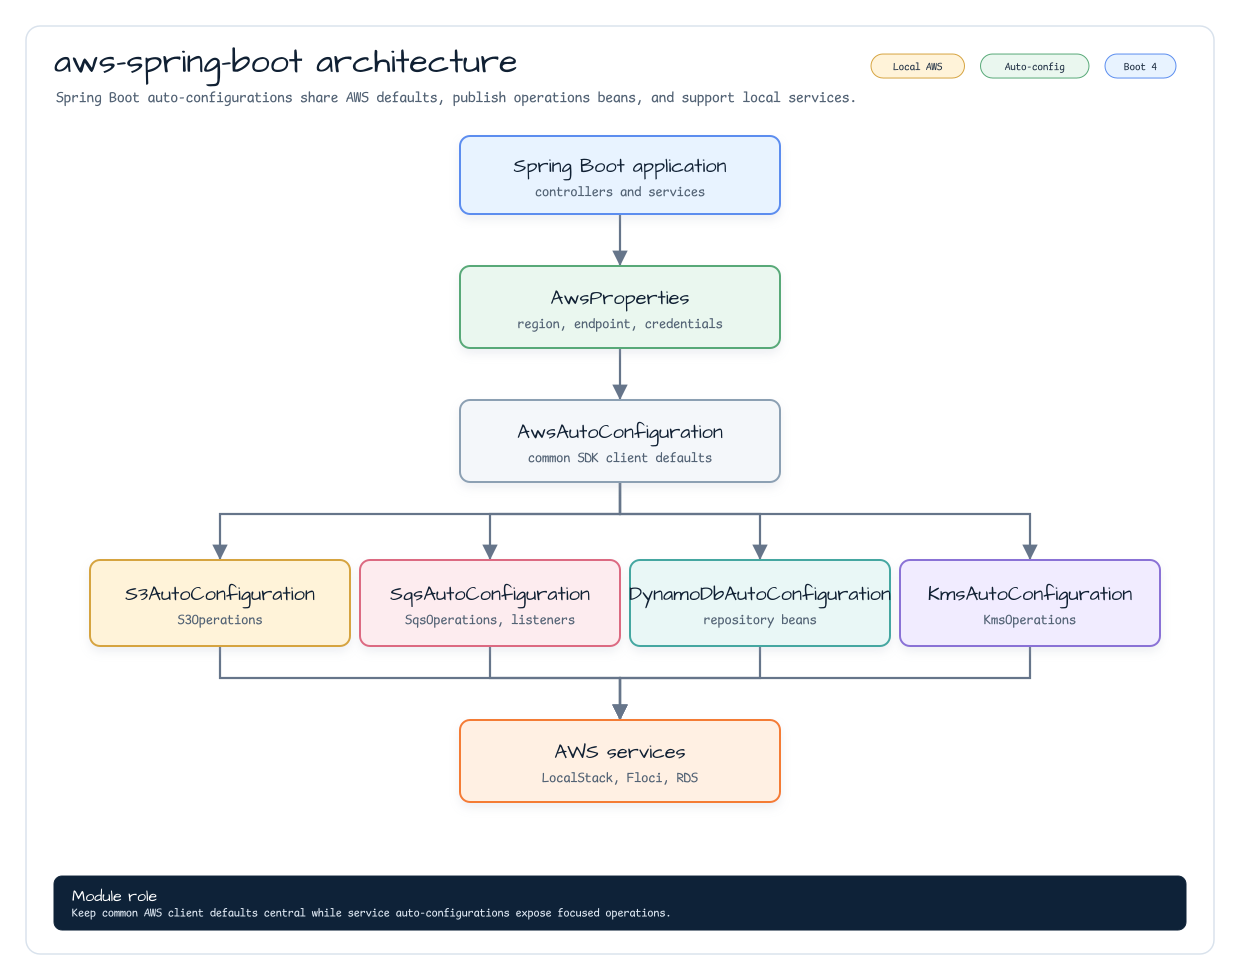
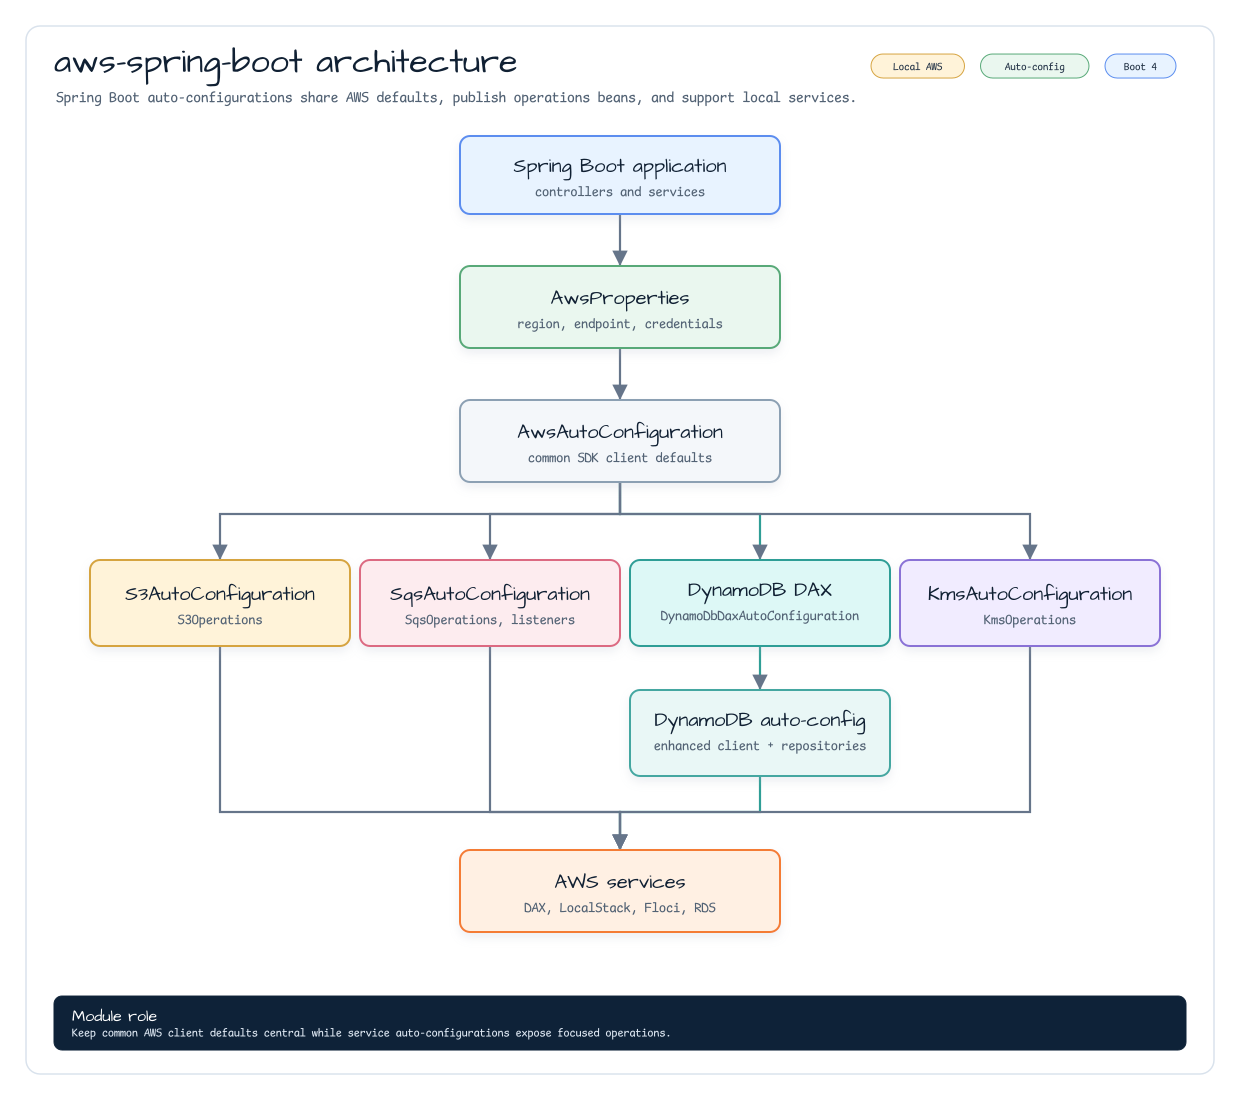
fix: address DynamoDB DAX PR review feedback
Adds package-level DAX property prefixes, reuses MockK collaborators in the auto-configuration test, and updates the Spring Boot architecture diagram to show the DAX path.

Constraint: PR review requested DAX prefix constants, MockK field reuse, and README-visible feature parity in the diagram.

Rejected: Documenting DAX only in README prose | architecture diagrams must reflect README-visible feature additions.

Confidence: high

Scope-risk: narrow

Directive: Keep README feature additions and architecture diagram assets synchronized in the same PR.

Tested: xmllint --noout docs/images/readme-diagrams/aws-spring-boot-architecture-01.svg docs/images/readme-diagrams/aws-spring-boot-architecture-01-sketch.svg; rsvg-convert -w 1240 -h 1100 docs/images/readme-diagrams/aws-spring-boot-architecture-01.svg -o docs/images/readme-diagrams/aws-spring-boot-architecture-01.png; ./gradlew :bluetape4k-aws-spring-boot:test --tests 'io.bluetape4k.aws.spring.dynamodb.*'; git diff --check

Not-tested: Full module test rerun after the review-only follow-up; previous PR CI and local full test passed before this narrow change.

diff --git a/aws-spring-boot/src/main/kotlin/io/bluetape4k/aws/spring/dynamodb/DynamoDbProperties.kt b/aws-spring-boot/src/main/kotlin/io/bluetape4k/aws/spring/dynamodb/DynamoDbProperties.kt
@@ -6,10 +6,13 @@ import java.io.Serializable
 import java.net.URI
 import java.time.Duration
 
+internal const val DYNAMODB_PROPERTIES_PREFIX: String = "bluetape4k.aws.dynamodb"
+internal const val DYNAMODB_DAX_PROPERTIES_PREFIX: String = "$DYNAMODB_PROPERTIES_PREFIX.dax"
+
 /**
  * DynamoDB 자동 설정 속성.
  */
-@ConfigurationProperties(prefix = "bluetape4k.aws.dynamodb")
+@ConfigurationProperties(prefix = DYNAMODB_PROPERTIES_PREFIX)
 data class DynamoDbProperties(
     val enabled: Boolean = true,
     val region: String? = null,
@@ -56,28 +59,28 @@ data class DynamoDbDaxProperties(
 
     internal fun validateEnabled() {
         require(url != null) {
-            "bluetape4k.aws.dynamodb.dax.url is required when DAX is enabled."
+            "$DYNAMODB_DAX_PROPERTIES_PREFIX.url is required when DAX is enabled."
         }
-        region?.requireNotBlank("bluetape4k.aws.dynamodb.dax.region")
+        region?.requireNotBlank("$DYNAMODB_DAX_PROPERTIES_PREFIX.region")
 
-        requireNonNegative(connectTimeout, "bluetape4k.aws.dynamodb.dax.connect-timeout")
-        requireNonNegative(requestTimeout, "bluetape4k.aws.dynamodb.dax.request-timeout")
-        requireNonNegative(idleTimeout, "bluetape4k.aws.dynamodb.dax.idle-timeout")
-        requireNonNegative(connectionTtl, "bluetape4k.aws.dynamodb.dax.connection-ttl")
-        requireNonNegative(clusterUpdateInterval, "bluetape4k.aws.dynamodb.dax.cluster-update-interval")
-        requireNonNegative(endpointRefreshTimeout, "bluetape4k.aws.dynamodb.dax.endpoint-refresh-timeout")
+        requireNonNegative(connectTimeout, "$DYNAMODB_DAX_PROPERTIES_PREFIX.connect-timeout")
+        requireNonNegative(requestTimeout, "$DYNAMODB_DAX_PROPERTIES_PREFIX.request-timeout")
+        requireNonNegative(idleTimeout, "$DYNAMODB_DAX_PROPERTIES_PREFIX.idle-timeout")
+        requireNonNegative(connectionTtl, "$DYNAMODB_DAX_PROPERTIES_PREFIX.connection-ttl")
+        requireNonNegative(clusterUpdateInterval, "$DYNAMODB_DAX_PROPERTIES_PREFIX.cluster-update-interval")
+        requireNonNegative(endpointRefreshTimeout, "$DYNAMODB_DAX_PROPERTIES_PREFIX.endpoint-refresh-timeout")
 
         require(writeRetries >= 0) {
-            "bluetape4k.aws.dynamodb.dax.write-retries must be greater than or equal to 0."
+            "$DYNAMODB_DAX_PROPERTIES_PREFIX.write-retries must be greater than or equal to 0."
         }
         require(readRetries >= 0) {
-            "bluetape4k.aws.dynamodb.dax.read-retries must be greater than or equal to 0."
+            "$DYNAMODB_DAX_PROPERTIES_PREFIX.read-retries must be greater than or equal to 0."
         }
         require(maxConcurrency >= 0) {
-            "bluetape4k.aws.dynamodb.dax.max-concurrency must be greater than or equal to 0."
+            "$DYNAMODB_DAX_PROPERTIES_PREFIX.max-concurrency must be greater than or equal to 0."
         }
         require(maxPendingConnectionAcquires >= 0) {
-            "bluetape4k.aws.dynamodb.dax.max-pending-connection-acquires must be greater than or equal to 0."
+            "$DYNAMODB_DAX_PROPERTIES_PREFIX.max-pending-connection-acquires must be greater than or equal to 0."
         }
     }
 

diff --git a/aws-spring-boot/src/main/kotlin/io/bluetape4k/aws/spring/dynamodb/DynamoDbDaxAutoConfiguration.kt b/aws-spring-boot/src/main/kotlin/io/bluetape4k/aws/spring/dynamodb/DynamoDbDaxAutoConfiguration.kt
@@ -31,8 +31,8 @@ import software.amazon.dax.Configuration
     before = [DynamoDbAutoConfiguration::class],
 )
 @ConditionalOnClass(name = ["software.amazon.dax.ClusterDaxAsyncClient"])
-@ConditionalOnProperty(prefix = "bluetape4k.aws.dynamodb", name = ["enabled"], havingValue = "true", matchIfMissing = true)
-@ConditionalOnProperty(prefix = "bluetape4k.aws.dynamodb.dax", name = ["enabled"], havingValue = "true")
+@ConditionalOnProperty(prefix = DYNAMODB_PROPERTIES_PREFIX, name = ["enabled"], havingValue = "true", matchIfMissing = true)
+@ConditionalOnProperty(prefix = DYNAMODB_DAX_PROPERTIES_PREFIX, name = ["enabled"], havingValue = "true")
 @EnableConfigurationProperties(DynamoDbProperties::class)
 class DynamoDbDaxAutoConfiguration {
 
@@ -60,17 +60,17 @@ class DynamoDbDaxAutoConfiguration {
                 .url(url.toString())
                 .region(region)
                 .credentialsProvider(resolveDynamoDbCredentialsProvider(credentialsProvider))
-                .connectTimeoutMillis(connectTimeout.toMillisInt("bluetape4k.aws.dynamodb.dax.connect-timeout"))
-                .requestTimeoutMillis(requestTimeout.toMillisInt("bluetape4k.aws.dynamodb.dax.request-timeout"))
-                .idleTimeoutMillis(idleTimeout.toMillisInt("bluetape4k.aws.dynamodb.dax.idle-timeout"))
-                .connectionTtlMillis(connectionTtl.toMillisInt("bluetape4k.aws.dynamodb.dax.connection-ttl"))
+                .connectTimeoutMillis(connectTimeout.toMillisInt("$DYNAMODB_DAX_PROPERTIES_PREFIX.connect-timeout"))
+                .requestTimeoutMillis(requestTimeout.toMillisInt("$DYNAMODB_DAX_PROPERTIES_PREFIX.request-timeout"))
+                .idleTimeoutMillis(idleTimeout.toMillisInt("$DYNAMODB_DAX_PROPERTIES_PREFIX.idle-timeout"))
+                .connectionTtlMillis(connectionTtl.toMillisInt("$DYNAMODB_DAX_PROPERTIES_PREFIX.connection-ttl"))
                 .writeRetries(writeRetries)
                 .readRetries(readRetries)
                 .clusterUpdateIntervalMillis(
-                    clusterUpdateInterval.toMillisInt("bluetape4k.aws.dynamodb.dax.cluster-update-interval")
+                    clusterUpdateInterval.toMillisInt("$DYNAMODB_DAX_PROPERTIES_PREFIX.cluster-update-interval")
                 )
                 .endpointRefreshTimeoutMillis(
-                    endpointRefreshTimeout.toMillisInt("bluetape4k.aws.dynamodb.dax.endpoint-refresh-timeout")
+                    endpointRefreshTimeout.toMillisInt("$DYNAMODB_DAX_PROPERTIES_PREFIX.endpoint-refresh-timeout")
                 )
                 .maxConcurrency(maxConcurrency)
                 .maxPendingConnectionAcquires(maxPendingConnectionAcquires)

diff --git a/aws-spring-boot/src/test/kotlin/io/bluetape4k/aws/spring/dynamodb/DynamoDbAutoConfigurationTest.kt b/aws-spring-boot/src/test/kotlin/io/bluetape4k/aws/spring/dynamodb/DynamoDbAutoConfigurationTest.kt
@@ -5,7 +5,9 @@ import io.bluetape4k.assertions.shouldBeEqualTo
 import io.bluetape4k.assertions.shouldBeSameInstanceAs
 import io.bluetape4k.assertions.shouldBeTrue
 import io.bluetape4k.assertions.shouldContain
+import io.mockk.clearMocks
 import io.mockk.mockk
+import org.junit.jupiter.api.BeforeEach
 import org.junit.jupiter.api.Test
 import org.springframework.boot.autoconfigure.AutoConfigurations
 import org.springframework.boot.test.context.FilteredClassLoader
@@ -19,6 +21,9 @@ import software.amazon.dax.ClusterDaxAsyncClient
 
 class DynamoDbAutoConfigurationTest {
 
+    private val customClient = mockk<DynamoDbAsyncClient>(relaxed = true)
+    private val customEnhancedClient = mockk<DynamoDbEnhancedAsyncClient>(relaxed = true)
+
     private val contextRunner = ApplicationContextRunner()
         .withConfiguration(
             AutoConfigurations.of(
@@ -28,6 +33,11 @@ class DynamoDbAutoConfigurationTest {
             )
         )
         .withPropertyValues("bluetape4k.aws.dynamodb.region=us-east-1")
+
+    @BeforeEach
+    fun resetMocks() {
+        clearMocks(customClient, customEnhancedClient)
+    }
 
     @Test
     fun `register DynamoDB clients properties and resolver`() {
@@ -53,8 +63,6 @@ class DynamoDbAutoConfigurationTest {
 
     @Test
     fun `custom DynamoDB async client backs off default client`() {
-        val customClient = mockk<DynamoDbAsyncClient>(relaxed = true)
-
         contextRunner
             .withBean(DynamoDbAsyncClient::class.java, { customClient })
             .run { context ->
@@ -66,8 +74,6 @@ class DynamoDbAutoConfigurationTest {
 
     @Test
     fun `custom DynamoDB async client backs off DAX client`() {
-        val customClient = mockk<DynamoDbAsyncClient>(relaxed = true)
-
         contextRunner
             .withBean(DynamoDbAsyncClient::class.java, { customClient })
             .withPropertyValues(
@@ -83,8 +89,6 @@ class DynamoDbAutoConfigurationTest {
 
     @Test
     fun `custom enhanced client backs off default enhanced client`() {
-        val customEnhancedClient = mockk<DynamoDbEnhancedAsyncClient>(relaxed = true)
-
         contextRunner
             .withBean(DynamoDbEnhancedAsyncClient::class.java, { customEnhancedClient })
             .run { context ->

diff --git a/docs/review/2026-06-07-issue-191-implementation-review.md b/docs/review/2026-06-07-issue-191-implementation-review.md
@@ -51,6 +51,30 @@ Reviewed the implementation diff against:
   - `gno embed --collection bluetape4k-wiki`: `Embedded 1 chunks`
   - `gno search "DynamoDB DAX Spring Boot bluetape4k" -c bluetape4k-wiki -n 5`: new research note returned as first result
 
+## PR Feedback Follow-up
+
+Reviewed PR comments added after the first CI pass:
+
+- Package-level property prefix constants now cover
+  `bluetape4k.aws.dynamodb` and `bluetape4k.aws.dynamodb.dax`.
+- `DynamoDbAutoConfigurationTest` now reuses class-level MockK instances and
+  clears them in `@BeforeEach`.
+- `aws-spring-boot` architecture diagram now includes the optional DAX
+  auto-configuration path and DAX service target.
+
+Follow-up validation:
+
+- `xmllint --noout docs/images/readme-diagrams/aws-spring-boot-architecture-01.svg docs/images/readme-diagrams/aws-spring-boot-architecture-01-sketch.svg`
+  - passed
+- `rsvg-convert -w 1240 -h 1100 docs/images/readme-diagrams/aws-spring-boot-architecture-01.svg -o docs/images/readme-diagrams/aws-spring-boot-architecture-01.png`
+  - passed
+- Rendered PNG inspection:
+  - passed; DAX card, DAX route, card text, footer, and outer margins are readable at README scale.
+- `./gradlew :bluetape4k-aws-spring-boot:test --tests 'io.bluetape4k.aws.spring.dynamodb.*'`
+  - `13 passing`
+- `git diff --check`
+  - passed
+
 ## Gate Verdict
 
 PASS.

diff --git a/docs/lessons/2026-06-07-issue-191-dynamodb-dax.md b/docs/lessons/2026-06-07-issue-191-dynamodb-dax.md
@@ -40,3 +40,8 @@ Do not reuse AWS SDK `DynamoDbAsyncClientBuilder` customizers for DAX directly;
 `ClusterDaxAsyncClient` uses its own `software.amazon.dax.Configuration`
 builder. Keep live DAX cluster validation separate from emulator-backed
 LocalStack, Floci, and DynamoDB Local tests.
+
+When adding a README-visible feature, update the related README diagram asset in
+the same PR. For auto-configuration tests, keep reusable MockK collaborators as
+class fields and clear them in `@BeforeEach` when the test class already has
+multiple custom-bean backoff scenarios.
